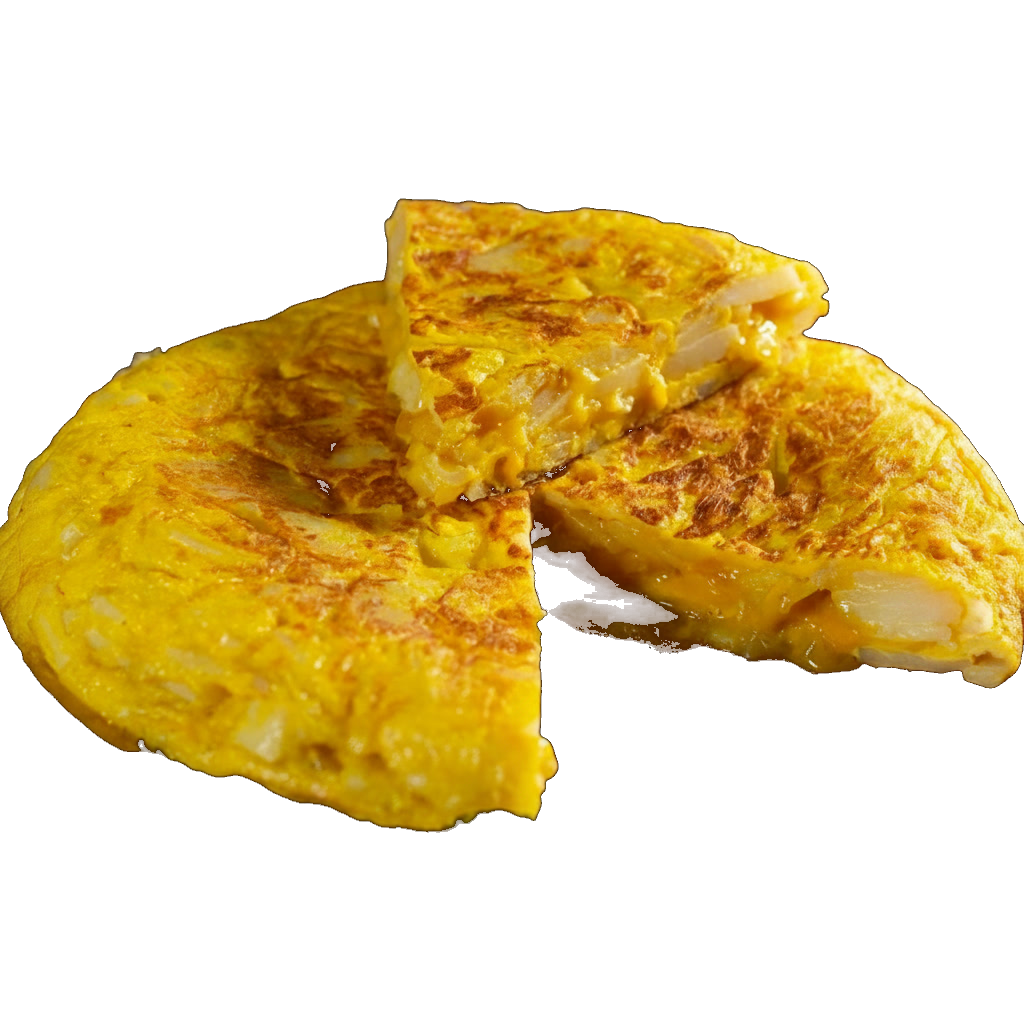
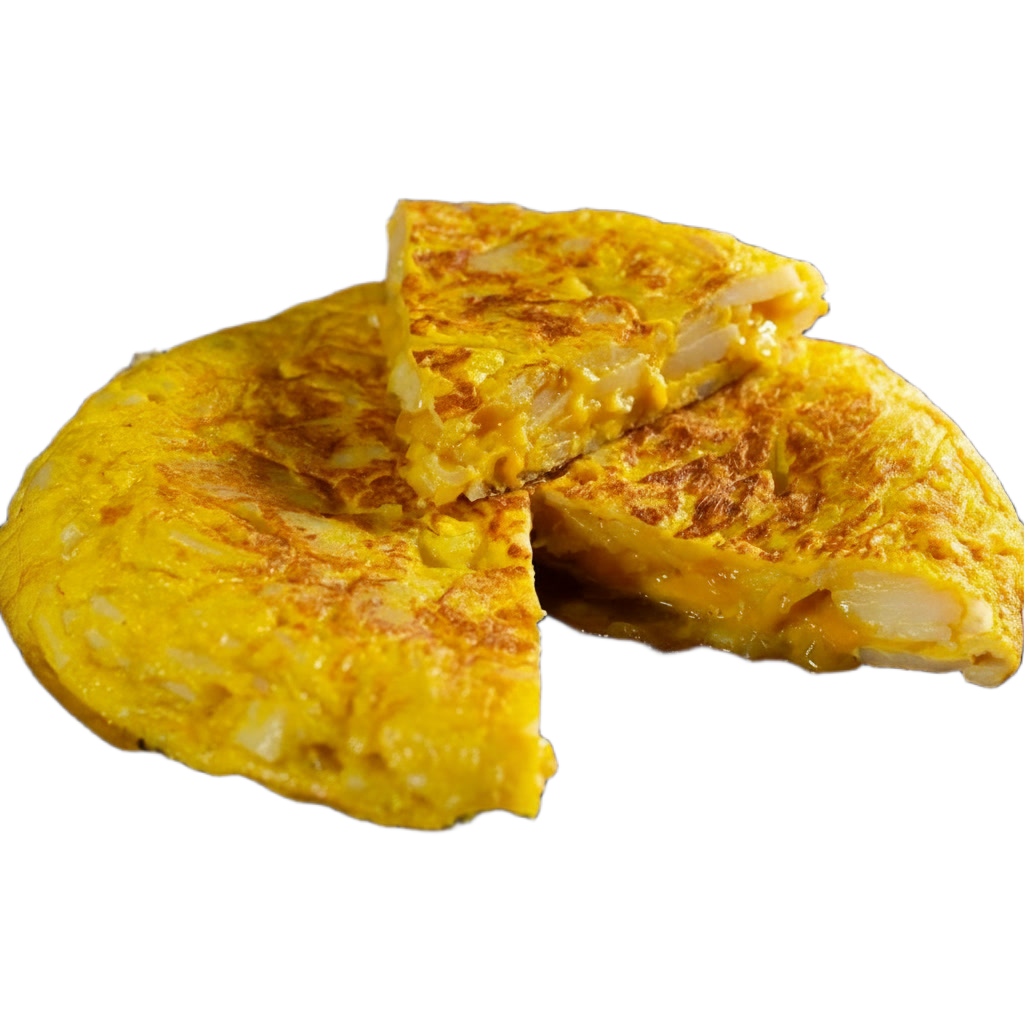
Tortilla: clean PNG, contained size, fixed position independent of text
- Use pre-cutout PNG with proper transparency (no black halo)
- Sized at 42vw/max 480px, fully contained within viewport
- Anchored to hero section not text — lang switches can't move it
- drop-shadow works correctly on transparent PNG

diff --git a/index.html b/index.html
@@ -171,36 +171,41 @@
       min-height: 100vh;
       position: relative;
       overflow: hidden;
-      display: flex;
-      align-items: center;
     }
 
     .hero-inner {
       position: relative;
       z-index: 1;
+      min-height: 100vh;
+      display: flex;
+      align-items: center;
       padding: 7rem 2rem 4rem;
       max-width: 1100px;
       margin: 0 auto;
       width: 100%;
+      /* cap text to left half so image always has room */
+      box-sizing: border-box;
     }
 
-    .hero-text { max-width: 520px; }
+    .hero-text { max-width: 480px; }
 
     .hero-image-wrap {
+      /* anchored to .hero section, not to text — immune to text reflow */
       position: absolute;
-      right: -8%;
+      right: 4%;
       top: 50%;
       transform: translateY(-50%);
-      width: 54vw;
-      max-width: 700px;
-      min-width: 400px;
+      width: 42vw;
+      max-width: 480px;
+      min-width: 280px;
       pointer-events: none;
+      z-index: 0;
     }
 
     .hero-image-wrap img {
       width: 100%;
       display: block;
-      filter: drop-shadow(-8px 20px 48px rgba(122,45,62,0.28));
+      filter: drop-shadow(0 12px 32px rgba(122,45,62,0.25));
     }
 
     @media (max-width: 780px) {
@@ -208,10 +213,15 @@
         position: relative;
         right: auto; top: auto;
         transform: none;
-        width: calc(100% + 4rem);
+        width: 80%;
         min-width: 0;
-        max-width: none;
-        margin: 2rem -2rem -2rem;
+        max-width: 320px;
+        margin: 0 auto 2rem;
+        z-index: 0;
+      }
+      .hero-inner {
+        flex-direction: column;
+        justify-content: center;
       }
     }
 